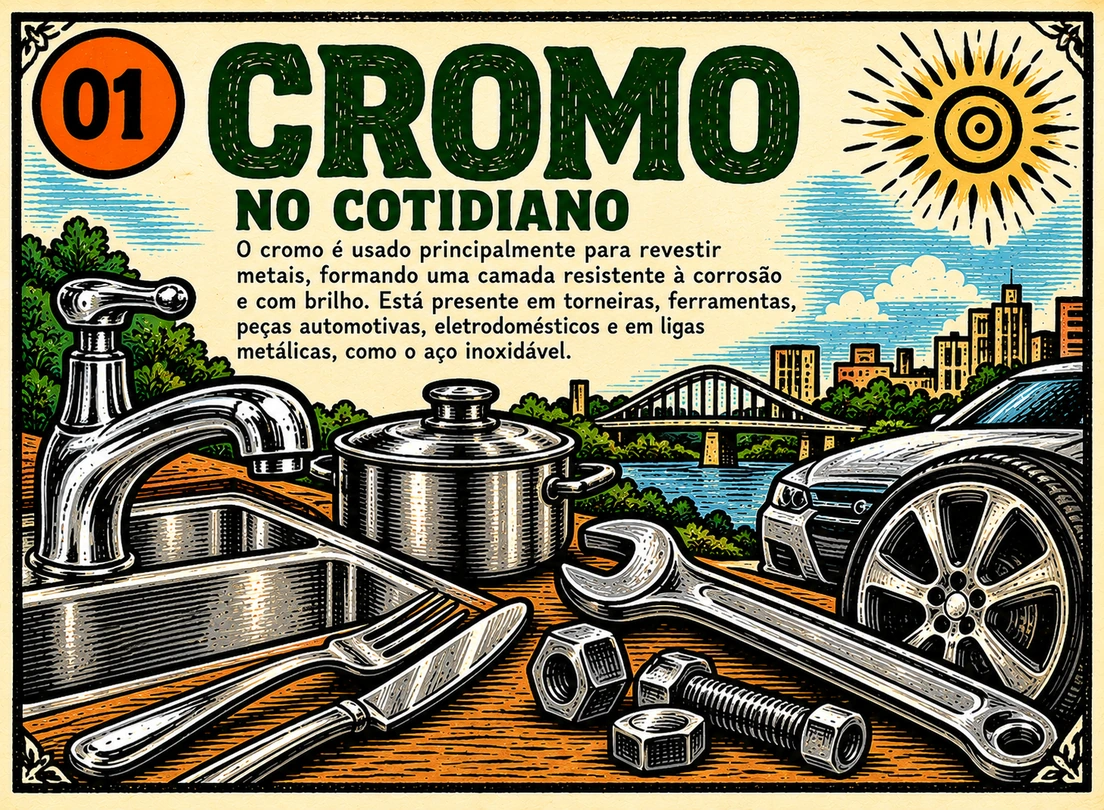
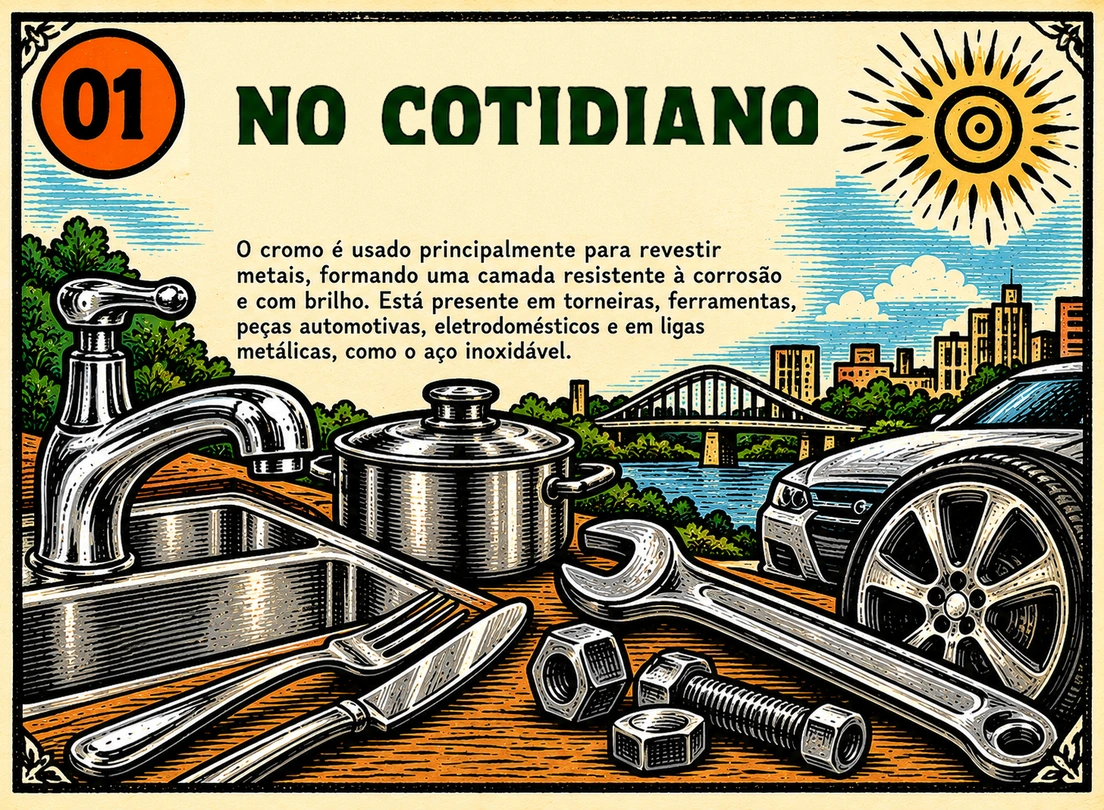
Revisar títulos dos quadros 01 do Cromo e Manganês e publicar Cobalto 027
Remove os nomes dos elementos dos títulos dos quadros 01, preservando ilustrações e molduras, integra quadros aprovados 027-01 e 027-02, atualiza o cache PWA e o manifesto e adiciona testes SHA-256 e impressão A4 para o Cobalto.

Changed region(s): [[0.1848, 0.0309, 0.7699, 0.3086]]

diff --git a/sw.js b/sw.js
@@ -1,9 +1,9 @@
-const CACHE='cordel-varal-v58-ferro-026-moldura-discreta';
+const CACHE='cordel-varal-v59-cobalto-027-e-revisoes-024-025';
 const ROOT=new URL('./',self.location.href).href;
 // Critical UI files must be revalidated online, not served indefinitely from
 // an older app-shell cache. Offline fallback keeps the PWA usable.
-const LIVE_ASSETS=new Set(['assets/style.css','assets/cordel-collection.css','assets/element-page.css','assets/app.js','assets/accessibility.js','assets/experience.js','assets/cordel-collection.js','assets/element-page.js','assets/folhetos/cenas/001-01.webp','assets/folhetos/cenas/001-02.webp','assets/folhetos/cenas/002-01.webp','assets/folhetos/cenas/002-02.webp','assets/folhetos/cenas/003-01.webp','assets/folhetos/cenas/003-02.webp','assets/folhetos/cenas/004-01.webp','assets/folhetos/cenas/004-02.webp','assets/folhetos/cenas/005-01.webp','assets/folhetos/cenas/005-02.webp','assets/folhetos/cenas/006-01.webp','assets/folhetos/cenas/006-02.webp','assets/folhetos/cenas/007-01.webp','assets/folhetos/cenas/007-02.webp','assets/folhetos/cenas/008-01.webp','assets/folhetos/cenas/008-02.webp','assets/folhetos/cenas/009-01.webp','assets/folhetos/cenas/009-02.webp','assets/folhetos/cenas/010-01.webp','assets/folhetos/cenas/010-02.webp','assets/folhetos/cenas/011-01.webp','assets/folhetos/cenas/011-02.webp','assets/folhetos/cenas/012-01.webp','assets/folhetos/cenas/012-02.webp','assets/folhetos/cenas/013-01.webp','assets/folhetos/cenas/013-02.webp','assets/folhetos/cenas/014-01.webp','assets/folhetos/cenas/014-02.webp','assets/folhetos/cenas/015-01.webp','assets/folhetos/cenas/015-02.webp','assets/folhetos/cenas/016-01.webp','assets/folhetos/cenas/016-02.webp','assets/folhetos/cenas/017-01.webp','assets/folhetos/cenas/017-02.webp','assets/folhetos/cenas/018-01.webp','assets/folhetos/cenas/018-02.webp','assets/folhetos/cenas/019-01.webp','assets/folhetos/cenas/019-02.webp','assets/folhetos/cenas/020-01.webp','assets/folhetos/cenas/020-02.webp','assets/folhetos/cenas/021-01.webp','assets/folhetos/cenas/021-02.webp','assets/folhetos/cenas/022-01.webp','assets/folhetos/cenas/022-02.webp','assets/folhetos/cenas/023-01.webp','assets/folhetos/cenas/023-02.webp','assets/folhetos/cenas/024-01.webp','assets/folhetos/cenas/024-02.webp','assets/folhetos/cenas/025-01.webp','assets/folhetos/cenas/025-02.webp','assets/folhetos/cenas/026-01.webp','assets/folhetos/cenas/026-02.webp','assets/folhetos/cenas/014-01.svg','assets/folhetos/cenas/014-02.svg','assets/element-model.js','assets/book-intro.js','assets/book-intro.css']);
-const FILES=["assets/element-page.css","assets/element-page.js","assets/folhetos/cenas/001-01.webp","assets/folhetos/cenas/001-02.webp","assets/folhetos/cenas/002-01.webp","assets/folhetos/cenas/002-02.webp","assets/folhetos/cenas/003-01.webp","assets/folhetos/cenas/003-02.webp","assets/folhetos/cenas/004-01.webp","assets/folhetos/cenas/004-02.webp","assets/folhetos/cenas/005-01.webp","assets/folhetos/cenas/005-02.webp","assets/folhetos/cenas/006-01.webp","assets/folhetos/cenas/006-02.webp","assets/folhetos/cenas/007-01.webp","assets/folhetos/cenas/007-02.webp","assets/folhetos/cenas/008-01.webp","assets/folhetos/cenas/008-02.webp","assets/folhetos/cenas/009-01.webp","assets/folhetos/cenas/009-02.webp","assets/folhetos/cenas/010-01.webp","assets/folhetos/cenas/010-02.webp","assets/folhetos/cenas/011-01.webp","assets/folhetos/cenas/011-02.webp","assets/folhetos/cenas/012-01.webp","assets/folhetos/cenas/012-02.webp","assets/folhetos/cenas/013-01.webp","assets/folhetos/cenas/013-02.webp","assets/folhetos/cenas/014-01.webp","assets/folhetos/cenas/014-02.webp","assets/folhetos/cenas/015-01.webp","assets/folhetos/cenas/015-02.webp","assets/folhetos/cenas/016-01.webp","assets/folhetos/cenas/016-02.webp","assets/folhetos/cenas/017-01.webp","assets/folhetos/cenas/017-02.webp","assets/folhetos/cenas/018-01.webp","assets/folhetos/cenas/018-02.webp","assets/folhetos/cenas/019-01.webp","assets/folhetos/cenas/019-02.webp","assets/folhetos/cenas/020-01.webp","assets/folhetos/cenas/020-02.webp","assets/folhetos/cenas/021-01.webp","assets/folhetos/cenas/021-02.webp","assets/folhetos/cenas/022-01.webp","assets/folhetos/cenas/022-02.webp","assets/folhetos/cenas/023-01.webp","assets/folhetos/cenas/023-02.webp","assets/folhetos/cenas/024-01.webp","assets/folhetos/cenas/024-02.webp","assets/folhetos/cenas/025-01.webp","assets/folhetos/cenas/025-02.webp","assets/folhetos/cenas/026-01.webp","assets/folhetos/cenas/026-02.webp","assets/folhetos/cenas/014-01.svg","assets/folhetos/cenas/014-02.svg","assets/element-model.js","assets/elementos-fichas.json","assets/book-intro.css","assets/intro/cordel-abertura-v06-web.mp4","assets/cordel-collection.css","assets/cordel-collection.js","assets/colecao/arte-001.webp","assets/colecao/estado_gasoso_nao_metais.webp","assets/colecao/arte-002.webp","assets/colecao/estado_gasoso_grupo18.webp","assets/colecao/arte-003.webp","assets/colecao/estado_solido_alcalinos.webp","assets/colecao/arte-004.webp","assets/colecao/estado_solido_alcalinoterrosos.webp","assets/colecao/arte-005.webp","assets/colecao/estado_solido_semimetais.webp","assets/colecao/arte-006.webp","assets/colecao/estado_solido_nao_metais.webp","assets/colecao/arte-007.webp","assets/colecao/arte-008.webp","assets/colecao/arte-009.webp","assets/colecao/estado_gasoso_halogenios.webp","assets/colecao/arte-010.webp","assets/colecao/arte-011.webp","assets/colecao/arte-012.webp","assets/colecao/arte-013.webp","assets/colecao/estado_solido_outros_metais.webp","assets/colecao/arte-014.webp","assets/colecao/arte-015.webp","assets/colecao/arte-016.webp","assets/colecao/arte-017.webp","assets/colecao/arte-018.webp","assets/colecao/arte-019.webp","assets/colecao/arte-020.webp","assets/colecao/arte-021.webp","assets/colecao/estado_solido_transicao.webp","assets/colecao/arte-022.webp","assets/colecao/arte-023.webp","assets/colecao/arte-024.webp","assets/colecao/arte-025.webp","assets/colecao/arte-026.webp","assets/colecao/arte-027.webp","assets/colecao/arte-028.webp","assets/colecao/arte-029.webp","assets/colecao/arte-030.webp","assets/colecao/arte-031.webp","assets/colecao/arte-032.webp","assets/colecao/arte-033.webp","assets/colecao/arte-034.webp","assets/colecao/arte-035.webp","assets/colecao/estado_liquido_halogenios.webp","assets/colecao/arte-036.webp","assets/colecao/arte-037.webp","assets/colecao/arte-038.webp","assets/colecao/arte-039.webp","assets/colecao/arte-040.webp","assets/colecao/arte-041.webp","assets/colecao/arte-042.webp","assets/colecao/arte-043.webp","assets/colecao/arte-044.webp","assets/colecao/arte-045.webp","assets/colecao/arte-046.webp","assets/colecao/arte-047.webp","assets/colecao/arte-048.webp","assets/colecao/arte-049.webp","assets/colecao/arte-050.webp","assets/colecao/arte-051.webp","assets/colecao/arte-052.webp","assets/colecao/arte-053.webp","assets/colecao/estado_solido_halogenios.webp","assets/colecao/arte-054.webp","assets/colecao/arte-055.webp","assets/colecao/arte-056.webp","assets/colecao/arte-057.webp","assets/colecao/estado_solido_lantanideos.webp","assets/colecao/arte-058.webp","assets/colecao/arte-059.webp","assets/colecao/arte-060.webp","assets/colecao/arte-061.webp","assets/colecao/arte-062.webp","assets/colecao/arte-063.webp","assets/colecao/arte-064.webp","assets/colecao/arte-065.webp","assets/colecao/arte-066.webp","assets/colecao/arte-067.webp","assets/colecao/arte-068.webp","assets/colecao/arte-069.webp","assets/colecao/arte-070.webp","assets/colecao/arte-071.webp","assets/colecao/arte-072.webp","assets/colecao/arte-073.webp","assets/colecao/arte-074.webp","assets/colecao/arte-075.webp","assets/colecao/arte-076.webp","assets/colecao/arte-077.webp","assets/colecao/arte-078.webp","assets/colecao/arte-079.webp","assets/colecao/arte-080.webp","assets/colecao/estado_liquido_outros_metais.webp","assets/colecao/arte-081.webp","assets/colecao/arte-082.webp","assets/colecao/arte-083.webp","assets/colecao/arte-084.webp","assets/colecao/arte-085.webp","assets/colecao/estado_nao_determinado_halogenios.webp","assets/colecao/arte-086.webp","assets/colecao/arte-087.webp","assets/colecao/estado_nao_determinado_alcalinos.webp","assets/colecao/arte-088.webp","assets/colecao/arte-089.webp","assets/colecao/estado_solido_actinideos.webp","assets/colecao/arte-090.webp","assets/colecao/arte-091.webp","assets/colecao/arte-092.webp","assets/colecao/arte-093.webp","assets/colecao/arte-094.webp","assets/colecao/arte-095.webp","assets/colecao/arte-096.webp","assets/colecao/arte-097.webp","assets/colecao/arte-098.webp","assets/colecao/arte-099.webp","assets/colecao/arte-100.webp","assets/colecao/estado_nao_determinado_actinideos.webp","assets/colecao/arte-101.webp","assets/colecao/arte-102.webp","assets/colecao/arte-103.webp","assets/colecao/arte-104.webp","assets/colecao/estado_nao_determinado_transicao.webp","assets/colecao/arte-105.webp","assets/colecao/arte-106.webp","assets/colecao/arte-107.webp","assets/colecao/arte-108.webp","assets/colecao/arte-109.webp","assets/colecao/arte-110.webp","assets/colecao/arte-111.webp","assets/colecao/arte-112.webp","assets/colecao/estado_nao_determinado_outros_metais.webp","assets/colecao/arte-113.webp","assets/colecao/arte-114.webp","assets/colecao/arte-115.webp","assets/colecao/arte-116.webp","assets/colecao/arte-117.webp","assets/colecao/arte-118.webp","assets/colecao/estado_nao_determinado_grupo18.webp","assets/fonts/DejaVuSans-Bold.woff","assets/fonts/DejaVuSans.woff","assets/fonts/DejaVuSerif-Bold.woff","./", "index.html", "404.html", "assets/style.css", "assets/app.js", "assets/accessibility.js", "assets/experience.js", "assets/book-intro.js", "assets/logo.svg", "assets/icon-192.png", "assets/icon-512.png", "assets/logo-full.webp", "assets/logo-symbol.webp", "manifest.webmanifest", "elementos/copernicio/", "elementos/californio/", "elementos/seaborgio/", "elementos/dubnio/", "elementos/vanadio/", "elementos/holmio/", "elementos/fermio/", "elementos/enxofre/", "elementos/netunio/", "elementos/molibdenio/", "elementos/iodo/", "elementos/helio/", "elementos/iterbio/", "elementos/renio/", "elementos/nihonio/", "elementos/tulio/", "elementos/mercurio/", "elementos/cobre/", "elementos/xenonio/", "elementos/hassio/", "elementos/prata/", "elementos/bario/", "elementos/chumbo/", "elementos/zinco/", "elementos/osmio/", "elementos/itrio/", "elementos/lutecio/", "elementos/rodio/", "elementos/litio/", "elementos/berquelio/", "elementos/titanio/", "elementos/fluor/", "elementos/talio/", "elementos/torio/", "elementos/fosforo/", "elementos/samario/", "elementos/rutherfordio/", "elementos/astato/", "elementos/mendelevio/", "elementos/lantanio/", "elementos/silicio/", "elementos/americio/", "elementos/cromo/", "elementos/francio/", "elementos/protactinio/", "elementos/indio/", "elementos/bohrio/", "elementos/arsenio/", "elementos/ferro/", "elementos/roentgenio/", "elementos/sodio/", "elementos/uranio/", "elementos/escandio/", "elementos/terbio/", "elementos/tenessino/", "elementos/rutenio/", "elementos/argonio/", "elementos/hafnio/", "elementos/flerovio/", "elementos/selenio/", "elementos/germanio/", "elementos/potassio/", "elementos/bismuto/", "elementos/estanho/", "elementos/niquel/", "elementos/estroncio/", "elementos/disprosio/", "elementos/platina/", "elementos/neonio/", "elementos/paladio/", "elementos/telurio/", "elementos/meitnerio/", "elementos/europio/", "elementos/hidrogenio/", "elementos/carbono/", "elementos/berilio/", "elementos/magnesio/", "elementos/cloro/", "elementos/criptonio/", "elementos/plutonio/", "elementos/curio/", "elementos/tantalo/", "elementos/cobalto/", "elementos/manganes/", "elementos/praseodimio/", "elementos/aluminio/", "elementos/cesio/", "elementos/niobio/", "elementos/neodimio/", "elementos/darmstadtio/", "elementos/calcio/", "elementos/actinio/", "elementos/erbio/", "elementos/boro/", "elementos/livermorio/", "elementos/nobelio/", "elementos/bromo/", "elementos/oxigenio/", "elementos/tungstenio/", "elementos/nitrogenio/", "elementos/gadolinio/", "elementos/cadmio/", "elementos/oganessonio/", "elementos/radonio/", "elementos/antimonio/", "elementos/promecio/", "elementos/zirconio/", "elementos/polonio/", "elementos/iridio/", "elementos/rubidio/", "elementos/cerio/", "elementos/galio/", "elementos/moscovio/", "elementos/einstenio/", "elementos/laurencio/", "elementos/radio/", "elementos/tecnecio/", "elementos/ouro/"];
+const LIVE_ASSETS=new Set(['assets/style.css','assets/cordel-collection.css','assets/element-page.css','assets/app.js','assets/accessibility.js','assets/experience.js','assets/cordel-collection.js','assets/element-page.js','assets/folhetos/cenas/001-01.webp','assets/folhetos/cenas/001-02.webp','assets/folhetos/cenas/002-01.webp','assets/folhetos/cenas/002-02.webp','assets/folhetos/cenas/003-01.webp','assets/folhetos/cenas/003-02.webp','assets/folhetos/cenas/004-01.webp','assets/folhetos/cenas/004-02.webp','assets/folhetos/cenas/005-01.webp','assets/folhetos/cenas/005-02.webp','assets/folhetos/cenas/006-01.webp','assets/folhetos/cenas/006-02.webp','assets/folhetos/cenas/007-01.webp','assets/folhetos/cenas/007-02.webp','assets/folhetos/cenas/008-01.webp','assets/folhetos/cenas/008-02.webp','assets/folhetos/cenas/009-01.webp','assets/folhetos/cenas/009-02.webp','assets/folhetos/cenas/010-01.webp','assets/folhetos/cenas/010-02.webp','assets/folhetos/cenas/011-01.webp','assets/folhetos/cenas/011-02.webp','assets/folhetos/cenas/012-01.webp','assets/folhetos/cenas/012-02.webp','assets/folhetos/cenas/013-01.webp','assets/folhetos/cenas/013-02.webp','assets/folhetos/cenas/014-01.webp','assets/folhetos/cenas/014-02.webp','assets/folhetos/cenas/015-01.webp','assets/folhetos/cenas/015-02.webp','assets/folhetos/cenas/016-01.webp','assets/folhetos/cenas/016-02.webp','assets/folhetos/cenas/017-01.webp','assets/folhetos/cenas/017-02.webp','assets/folhetos/cenas/018-01.webp','assets/folhetos/cenas/018-02.webp','assets/folhetos/cenas/019-01.webp','assets/folhetos/cenas/019-02.webp','assets/folhetos/cenas/020-01.webp','assets/folhetos/cenas/020-02.webp','assets/folhetos/cenas/021-01.webp','assets/folhetos/cenas/021-02.webp','assets/folhetos/cenas/022-01.webp','assets/folhetos/cenas/022-02.webp','assets/folhetos/cenas/023-01.webp','assets/folhetos/cenas/023-02.webp','assets/folhetos/cenas/024-01.webp','assets/folhetos/cenas/024-02.webp','assets/folhetos/cenas/025-01.webp','assets/folhetos/cenas/025-02.webp','assets/folhetos/cenas/026-01.webp','assets/folhetos/cenas/026-02.webp','assets/folhetos/cenas/027-01.webp','assets/folhetos/cenas/027-02.webp','assets/folhetos/cenas/014-01.svg','assets/folhetos/cenas/014-02.svg','assets/element-model.js','assets/book-intro.js','assets/book-intro.css']);
+const FILES=["assets/element-page.css","assets/element-page.js","assets/folhetos/cenas/001-01.webp","assets/folhetos/cenas/001-02.webp","assets/folhetos/cenas/002-01.webp","assets/folhetos/cenas/002-02.webp","assets/folhetos/cenas/003-01.webp","assets/folhetos/cenas/003-02.webp","assets/folhetos/cenas/004-01.webp","assets/folhetos/cenas/004-02.webp","assets/folhetos/cenas/005-01.webp","assets/folhetos/cenas/005-02.webp","assets/folhetos/cenas/006-01.webp","assets/folhetos/cenas/006-02.webp","assets/folhetos/cenas/007-01.webp","assets/folhetos/cenas/007-02.webp","assets/folhetos/cenas/008-01.webp","assets/folhetos/cenas/008-02.webp","assets/folhetos/cenas/009-01.webp","assets/folhetos/cenas/009-02.webp","assets/folhetos/cenas/010-01.webp","assets/folhetos/cenas/010-02.webp","assets/folhetos/cenas/011-01.webp","assets/folhetos/cenas/011-02.webp","assets/folhetos/cenas/012-01.webp","assets/folhetos/cenas/012-02.webp","assets/folhetos/cenas/013-01.webp","assets/folhetos/cenas/013-02.webp","assets/folhetos/cenas/014-01.webp","assets/folhetos/cenas/014-02.webp","assets/folhetos/cenas/015-01.webp","assets/folhetos/cenas/015-02.webp","assets/folhetos/cenas/016-01.webp","assets/folhetos/cenas/016-02.webp","assets/folhetos/cenas/017-01.webp","assets/folhetos/cenas/017-02.webp","assets/folhetos/cenas/018-01.webp","assets/folhetos/cenas/018-02.webp","assets/folhetos/cenas/019-01.webp","assets/folhetos/cenas/019-02.webp","assets/folhetos/cenas/020-01.webp","assets/folhetos/cenas/020-02.webp","assets/folhetos/cenas/021-01.webp","assets/folhetos/cenas/021-02.webp","assets/folhetos/cenas/022-01.webp","assets/folhetos/cenas/022-02.webp","assets/folhetos/cenas/023-01.webp","assets/folhetos/cenas/023-02.webp","assets/folhetos/cenas/024-01.webp","assets/folhetos/cenas/024-02.webp","assets/folhetos/cenas/025-01.webp","assets/folhetos/cenas/025-02.webp","assets/folhetos/cenas/026-01.webp","assets/folhetos/cenas/026-02.webp","assets/folhetos/cenas/027-01.webp","assets/folhetos/cenas/027-02.webp","assets/folhetos/cenas/014-01.svg","assets/folhetos/cenas/014-02.svg","assets/element-model.js","assets/elementos-fichas.json","assets/book-intro.css","assets/intro/cordel-abertura-v06-web.mp4","assets/cordel-collection.css","assets/cordel-collection.js","assets/colecao/arte-001.webp","assets/colecao/estado_gasoso_nao_metais.webp","assets/colecao/arte-002.webp","assets/colecao/estado_gasoso_grupo18.webp","assets/colecao/arte-003.webp","assets/colecao/estado_solido_alcalinos.webp","assets/colecao/arte-004.webp","assets/colecao/estado_solido_alcalinoterrosos.webp","assets/colecao/arte-005.webp","assets/colecao/estado_solido_semimetais.webp","assets/colecao/arte-006.webp","assets/colecao/estado_solido_nao_metais.webp","assets/colecao/arte-007.webp","assets/colecao/arte-008.webp","assets/colecao/arte-009.webp","assets/colecao/estado_gasoso_halogenios.webp","assets/colecao/arte-010.webp","assets/colecao/arte-011.webp","assets/colecao/arte-012.webp","assets/colecao/arte-013.webp","assets/colecao/estado_solido_outros_metais.webp","assets/colecao/arte-014.webp","assets/colecao/arte-015.webp","assets/colecao/arte-016.webp","assets/colecao/arte-017.webp","assets/colecao/arte-018.webp","assets/colecao/arte-019.webp","assets/colecao/arte-020.webp","assets/colecao/arte-021.webp","assets/colecao/estado_solido_transicao.webp","assets/colecao/arte-022.webp","assets/colecao/arte-023.webp","assets/colecao/arte-024.webp","assets/colecao/arte-025.webp","assets/colecao/arte-026.webp","assets/colecao/arte-027.webp","assets/colecao/arte-028.webp","assets/colecao/arte-029.webp","assets/colecao/arte-030.webp","assets/colecao/arte-031.webp","assets/colecao/arte-032.webp","assets/colecao/arte-033.webp","assets/colecao/arte-034.webp","assets/colecao/arte-035.webp","assets/colecao/estado_liquido_halogenios.webp","assets/colecao/arte-036.webp","assets/colecao/arte-037.webp","assets/colecao/arte-038.webp","assets/colecao/arte-039.webp","assets/colecao/arte-040.webp","assets/colecao/arte-041.webp","assets/colecao/arte-042.webp","assets/colecao/arte-043.webp","assets/colecao/arte-044.webp","assets/colecao/arte-045.webp","assets/colecao/arte-046.webp","assets/colecao/arte-047.webp","assets/colecao/arte-048.webp","assets/colecao/arte-049.webp","assets/colecao/arte-050.webp","assets/colecao/arte-051.webp","assets/colecao/arte-052.webp","assets/colecao/arte-053.webp","assets/colecao/estado_solido_halogenios.webp","assets/colecao/arte-054.webp","assets/colecao/arte-055.webp","assets/colecao/arte-056.webp","assets/colecao/arte-057.webp","assets/colecao/estado_solido_lantanideos.webp","assets/colecao/arte-058.webp","assets/colecao/arte-059.webp","assets/colecao/arte-060.webp","assets/colecao/arte-061.webp","assets/colecao/arte-062.webp","assets/colecao/arte-063.webp","assets/colecao/arte-064.webp","assets/colecao/arte-065.webp","assets/colecao/arte-066.webp","assets/colecao/arte-067.webp","assets/colecao/arte-068.webp","assets/colecao/arte-069.webp","assets/colecao/arte-070.webp","assets/colecao/arte-071.webp","assets/colecao/arte-072.webp","assets/colecao/arte-073.webp","assets/colecao/arte-074.webp","assets/colecao/arte-075.webp","assets/colecao/arte-076.webp","assets/colecao/arte-077.webp","assets/colecao/arte-078.webp","assets/colecao/arte-079.webp","assets/colecao/arte-080.webp","assets/colecao/estado_liquido_outros_metais.webp","assets/colecao/arte-081.webp","assets/colecao/arte-082.webp","assets/colecao/arte-083.webp","assets/colecao/arte-084.webp","assets/colecao/arte-085.webp","assets/colecao/estado_nao_determinado_halogenios.webp","assets/colecao/arte-086.webp","assets/colecao/arte-087.webp","assets/colecao/estado_nao_determinado_alcalinos.webp","assets/colecao/arte-088.webp","assets/colecao/arte-089.webp","assets/colecao/estado_solido_actinideos.webp","assets/colecao/arte-090.webp","assets/colecao/arte-091.webp","assets/colecao/arte-092.webp","assets/colecao/arte-093.webp","assets/colecao/arte-094.webp","assets/colecao/arte-095.webp","assets/colecao/arte-096.webp","assets/colecao/arte-097.webp","assets/colecao/arte-098.webp","assets/colecao/arte-099.webp","assets/colecao/arte-100.webp","assets/colecao/estado_nao_determinado_actinideos.webp","assets/colecao/arte-101.webp","assets/colecao/arte-102.webp","assets/colecao/arte-103.webp","assets/colecao/arte-104.webp","assets/colecao/estado_nao_determinado_transicao.webp","assets/colecao/arte-105.webp","assets/colecao/arte-106.webp","assets/colecao/arte-107.webp","assets/colecao/arte-108.webp","assets/colecao/arte-109.webp","assets/colecao/arte-110.webp","assets/colecao/arte-111.webp","assets/colecao/arte-112.webp","assets/colecao/estado_nao_determinado_outros_metais.webp","assets/colecao/arte-113.webp","assets/colecao/arte-114.webp","assets/colecao/arte-115.webp","assets/colecao/arte-116.webp","assets/colecao/arte-117.webp","assets/colecao/arte-118.webp","assets/colecao/estado_nao_determinado_grupo18.webp","assets/fonts/DejaVuSans-Bold.woff","assets/fonts/DejaVuSans.woff","assets/fonts/DejaVuSerif-Bold.woff","./", "index.html", "404.html", "assets/style.css", "assets/app.js", "assets/accessibility.js", "assets/experience.js", "assets/book-intro.js", "assets/logo.svg", "assets/icon-192.png", "assets/icon-512.png", "assets/logo-full.webp", "assets/logo-symbol.webp", "manifest.webmanifest", "elementos/copernicio/", "elementos/californio/", "elementos/seaborgio/", "elementos/dubnio/", "elementos/vanadio/", "elementos/holmio/", "elementos/fermio/", "elementos/enxofre/", "elementos/netunio/", "elementos/molibdenio/", "elementos/iodo/", "elementos/helio/", "elementos/iterbio/", "elementos/renio/", "elementos/nihonio/", "elementos/tulio/", "elementos/mercurio/", "elementos/cobre/", "elementos/xenonio/", "elementos/hassio/", "elementos/prata/", "elementos/bario/", "elementos/chumbo/", "elementos/zinco/", "elementos/osmio/", "elementos/itrio/", "elementos/lutecio/", "elementos/rodio/", "elementos/litio/", "elementos/berquelio/", "elementos/titanio/", "elementos/fluor/", "elementos/talio/", "elementos/torio/", "elementos/fosforo/", "elementos/samario/", "elementos/rutherfordio/", "elementos/astato/", "elementos/mendelevio/", "elementos/lantanio/", "elementos/silicio/", "elementos/americio/", "elementos/cromo/", "elementos/francio/", "elementos/protactinio/", "elementos/indio/", "elementos/bohrio/", "elementos/arsenio/", "elementos/ferro/", "elementos/roentgenio/", "elementos/sodio/", "elementos/uranio/", "elementos/escandio/", "elementos/terbio/", "elementos/tenessino/", "elementos/rutenio/", "elementos/argonio/", "elementos/hafnio/", "elementos/flerovio/", "elementos/selenio/", "elementos/germanio/", "elementos/potassio/", "elementos/bismuto/", "elementos/estanho/", "elementos/niquel/", "elementos/estroncio/", "elementos/disprosio/", "elementos/platina/", "elementos/neonio/", "elementos/paladio/", "elementos/telurio/", "elementos/meitnerio/", "elementos/europio/", "elementos/hidrogenio/", "elementos/carbono/", "elementos/berilio/", "elementos/magnesio/", "elementos/cloro/", "elementos/criptonio/", "elementos/plutonio/", "elementos/curio/", "elementos/tantalo/", "elementos/cobalto/", "elementos/manganes/", "elementos/praseodimio/", "elementos/aluminio/", "elementos/cesio/", "elementos/niobio/", "elementos/neodimio/", "elementos/darmstadtio/", "elementos/calcio/", "elementos/actinio/", "elementos/erbio/", "elementos/boro/", "elementos/livermorio/", "elementos/nobelio/", "elementos/bromo/", "elementos/oxigenio/", "elementos/tungstenio/", "elementos/nitrogenio/", "elementos/gadolinio/", "elementos/cadmio/", "elementos/oganessonio/", "elementos/radonio/", "elementos/antimonio/", "elementos/promecio/", "elementos/zirconio/", "elementos/polonio/", "elementos/iridio/", "elementos/rubidio/", "elementos/cerio/", "elementos/galio/", "elementos/moscovio/", "elementos/einstenio/", "elementos/laurencio/", "elementos/radio/", "elementos/tecnecio/", "elementos/ouro/"];
 self.addEventListener('install',event=>{event.waitUntil(caches.open(CACHE).then(cache=>cache.addAll(FILES.map(p=>new Request(new URL(p,ROOT).href,{cache:"reload"})))).then(()=>self.skipWaiting()));});
 self.addEventListener('activate',event=>{event.waitUntil(caches.keys().then(keys=>Promise.all(keys.filter(k=>k.startsWith('cordel-')&&k!==CACHE).map(k=>caches.delete(k)))).then(()=>self.clients.claim()));});
 // Vídeo offline: responde às requisições parciais usadas pelos navegadores móveis.

diff --git a/elementos/cobalto/index.html b/elementos/cobalto/index.html
@@ -1,6 +1,6 @@
 <!doctype html>
 <html lang="pt-BR"><head><meta charset="utf-8"><meta name="viewport" content="width=device-width, initial-scale=1"><meta name="description" content="Cobalto (Co): explore o átomo, compare propriedades e descubra suas conexões no Cordel dos Elementos."><meta name="theme-color" content="#f4eedf"><meta name="color-scheme" content="light dark"><title>Cobalto (Co) · Cordel dos Elementos</title><link rel="manifest" href="../../manifest.webmanifest"><link rel="icon" href="../../assets/icon-192.png"><link rel="apple-touch-icon" href="../../assets/icon-192.png"><link rel="stylesheet" href="../../assets/style.css"><link rel="stylesheet" href="../../assets/element-page.css"><script defer src="../../assets/accessibility.js"></script><script defer src="../../assets/element-model.js"></script><script defer src="../../assets/element-page.js"></script></head>
-<body class="element-page" style="--element-color:#146B61"><a class="skip" href="#conteudo">Pular para o conteúdo</a><header><div class="wrap head"><a class="brand" href="../../index.html"><img class="brand-logo" src="../../assets/logo-symbol.webp" width="64" height="64" alt=""><span>Cordel<br>dos Elementos</span></a><nav aria-label="Navegação principal"><a href="../../index.html">Explorar elementos</a><button class="install-open" type="button">Instalar</button><button id="appearance-open" type="button" aria-haspopup="dialog" aria-expanded="false" aria-controls="appearance">Acessibilidade</button></nav></div></header>
+<body class="element-page" data-folheto-piloto="cobalto" style="--element-color:#146B61"><a class="skip" href="#conteudo">Pular para o conteúdo</a><header><div class="wrap head"><a class="brand" href="../../index.html"><img class="brand-logo" src="../../assets/logo-symbol.webp" width="64" height="64" alt=""><span>Cordel<br>dos Elementos</span></a><nav aria-label="Navegação principal"><a href="../../index.html">Explorar elementos</a><button class="install-open" type="button">Instalar</button><button id="appearance-open" type="button" aria-haspopup="dialog" aria-expanded="false" aria-controls="appearance">Acessibilidade</button></nav></div></header>
 <main id="conteudo" class="wrap ep-main"><nav class="ep-breadcrumb" aria-label="Caminho da página"><a href="../../index.html#colecao">Coleção dos elementos</a><span aria-hidden="true">/</span><span aria-current="page">Cobalto</span></nav>
 <div class="ep-hero" id="ficha"><figure class="ep-cover"><svg class="folio-frame folio-decoration" viewBox="0 0 100 140" preserveAspectRatio="none" aria-hidden="true" focusable="false"><path class="folio-frame-outer" d="M2.4 2L27.92 2.16L61.52 1.94L97.7 2.18L98 46.88L97.88 93.12L97.9 137.8L64.4 138L31.76 137.85L2.15 138L2 89.04L2.14 42.8Z"/><path class="folio-frame-inner" d="M3.5 3.5H96.5V136.5H3.5Z"/><path class="folio-frame-hatch" d="M5.05 4.3L4.3 5.05 M5.77 4.3L4.3 5.77 M6.49 4.3L4.3 6.49 M7.21 4.3L4.3 7.21 M5.05 135.7L4.3 134.95 M5.77 135.7L4.3 134.23 M6.49 135.7L4.3 133.51 M7.21 135.7L4.3 132.79 M94.95 4.3L95.7 5.05 M94.23 4.3L95.7 5.77 M93.51 4.3L95.7 6.49 M92.79 4.3L95.7 7.21 M94.95 135.7L95.7 134.95 M94.23 135.7L95.7 134.23 M93.51 135.7L95.7 133.51 M92.79 135.7L95.7 132.79"/></svg><span class="ep-cover-pin" aria-hidden="true"></span><div class="ep-cover-top"><span><small>Número atômico</small><strong>27</strong></span><span class="ep-state"><img src="../../assets/colecao/estado_solido_transicao.webp" width="42" height="42" alt=""><span>Sólido<small>25 °C · 1 atm</small></span></span></div><span class="ep-symbol" aria-hidden="true">Co</span><img class="ep-art" src="../../assets/colecao/arte-027.webp" alt="Vaso azul" width="640" height="427" fetchpriority="high"><figcaption><strong>Cobalto</strong><span>58,933 u</span><div class="ep-ornament" aria-hidden="true">◆</div><p>Seus compostos dão tons azuis a cerâmicas.</p></figcaption></figure>
 <div class="ep-introduction"><p class="ep-kicker">Folheto 027 <span>/ 118</span></p><p class="ep-category">Metal de transição</p><h1>Cobalto</h1><p class="ep-hero-phrase">Seus compostos dão tons azuis a cerâmicas.</p><p class="ep-intro-description">Um elemento, muitas conexões. Percorra este folheto para descobrir o que sua identidade atômica revela e como ela se relaciona com o mundo.</p><dl class="ep-identity-facts"><div><dt>Símbolo químico</dt><dd>Co</dd></div><div><dt>Na tabela</dt><dd>Grupo 9 · período 4</dd></div><div><dt>Massa atômica apresentada</dt><dd>58,933 u</dd></div></dl><div class="ep-actions"><a class="ep-primary" href="#atomo">Explorar o átomo <span aria-hidden="true">↓</span></a><button hidden data-enhance id="copy-element" type="button">Copiar link</button><button hidden data-enhance id="print-element" type="button">Imprimir folheto</button></div><p id="share-status" class="ep-status" role="status"></p><div id="share-fallback" hidden><label for="element-url">Selecione e copie o endereço</label><input id="element-url" readonly></div></div></div>

diff --git a/assets/element-page.js b/assets/element-page.js
@@ -449,6 +449,30 @@
         figure.addEventListener('error',()=>{panel.dataset.sceneError='true';},{once:true});
       }
     }
+    // PILOTO 027 — Cobalto: artes aprovadas com Moldura A orgânica.
+    if(current.z===27 && document.body.dataset.folhetoPiloto==='cobalto'){
+      sheet.dataset.printPhase='piloto-quadros-integrais';
+      const captions=[
+        'No cotidiano: compostos de cobalto em determinadas baterias recarregáveis e pigmentos; cobalto também participa de superligas e outras aplicações industriais.',
+        'Da origem à obtenção: recuperação do cobalto de minérios associados ao níquel e cobre, seguida de beneficiamento e refino para obter cobalto metálico ou sais.'
+      ];
+      for(const [i,slot] of [...sheet.querySelectorAll('.ep-print-story-art')].entries()){
+        const panel=slot.closest('.ep-print-story');
+        panel.setAttribute('aria-label',captions[i]);
+        const figure=document.createElement('img');
+        figure.className='ep-print-approved-art';
+        figure.alt='';
+        figure.loading='eager';figure.decoding='sync';
+        figure.src='../../assets/folhetos/cenas/027-0'+(i+1)+'.webp?fit=co027-moldura-discreta-v1';
+        figure.addEventListener('load',()=>{
+          if(figure.naturalWidth>0){
+            slot.replaceChildren(figure);
+            panel.dataset.sceneReady='true';
+          }
+        },{once:true});
+        figure.addEventListener('error',()=>{panel.dataset.sceneError='true';},{once:true});
+      }
+    }
     // PILOTO 026 — Ferro: artes aprovadas com Moldura A orgânica.
     if(current.z===26 && document.body.dataset.folhetoPiloto==='ferro'){
       sheet.dataset.printPhase='piloto-quadros-integrais';
@@ -487,7 +511,7 @@
         figure.className='ep-print-approved-art';
         figure.alt='';
         figure.loading='eager';figure.decoding='sync';
-        figure.src='../../assets/folhetos/cenas/025-0'+(i+1)+'.webp?fit=mn025-moldura-discreta-v1';
+        figure.src='../../assets/folhetos/cenas/025-0'+(i+1)+'.webp?fit=mn025-no-nome-v2';
         figure.addEventListener('load',()=>{
           if(figure.naturalWidth>0){
             slot.replaceChildren(figure);
@@ -511,7 +535,7 @@
         figure.className='ep-print-approved-art';
         figure.alt='';
         figure.loading='eager';figure.decoding='sync';
-        figure.src='../../assets/folhetos/cenas/024-0'+(i+1)+'.webp?fit=cr024-moldura-leve-v1';
+        figure.src='../../assets/folhetos/cenas/024-0'+(i+1)+'.webp?fit=cr024-no-nome-v2';
         figure.addEventListener('load',()=>{
           if(figure.naturalWidth>0){
             slot.replaceChildren(figure);

diff --git a/assets/element-page.css b/assets/element-page.css
@@ -1721,3 +1721,44 @@ body.element-page[data-palette=blueyellow] .ep-state img,body.element-page[data-
     transform:none!important;
   }
 }
+
+/* PILOTO 027 — Cobalto, Moldura discreta: quadros aprovados conforme o encaixe A4 homologado no Lítio.
+   Artes aprovadas em 1104 × 810 px, sem corte, sobreposição ou deformação. */
+@media print {
+  body.element-page > .ep-print-sheet.ep-print-prototype[data-element="027"][data-print-phase="piloto-quadros-integrais"]{
+    grid-template-rows:15mm 8mm 96mm 65mm 67.5mm 14.5mm!important;
+  }
+  .ep-print-sheet[data-element="027"][data-print-phase="piloto-quadros-integrais"] .ep-print-stories{
+    display:grid!important;grid-template-columns:repeat(2,minmax(0,1fr))!important;
+    align-items:stretch!important;justify-items:stretch!important;
+    column-gap:2mm!important;gap:2mm!important;
+  }
+  .ep-print-sheet[data-element="027"][data-print-phase="piloto-quadros-integrais"] .ep-print-story{
+    display:block!important;position:relative!important;
+    padding:0!important;margin:0!important;gap:0!important;
+    border:0!important;min-width:0!important;min-height:0!important;
+    height:100%!important;overflow:visible!important;background:#fffaf0!important;
+  }
+  .ep-print-sheet[data-element="027"][data-print-phase="piloto-quadros-integrais"] .ep-print-story > h2,
+  .ep-print-sheet[data-element="027"][data-print-phase="piloto-quadros-integrais"] .ep-print-story > p{
+    display:none!important;
+  }
+  .ep-print-sheet[data-element="027"][data-print-phase="piloto-quadros-integrais"] .ep-print-story-art{
+    position:absolute!important;display:block!important;inset:0!important;
+    width:100%!important;height:100%!important;min-height:0!important;
+    max-height:none!important;margin:0!important;padding:0!important;
+    border:0!important;overflow:hidden!important;
+    background:#fffaf0!important;
+  }
+  .ep-print-sheet[data-element="027"][data-print-phase="piloto-quadros-integrais"] .ep-print-story-art::before,
+  .ep-print-sheet[data-element="027"][data-print-phase="piloto-quadros-integrais"] .ep-print-story-art::after{
+    content:none!important;
+  }
+  .ep-print-sheet[data-element="027"][data-print-phase="piloto-quadros-integrais"] .ep-print-approved-art{
+    display:block!important;width:100%!important;height:100%!important;
+    max-width:none!important;max-height:none!important;
+    object-fit:contain!important;object-position:center center!important;
+    image-rendering:auto!important;
+    transform:none!important;
+  }
+}
